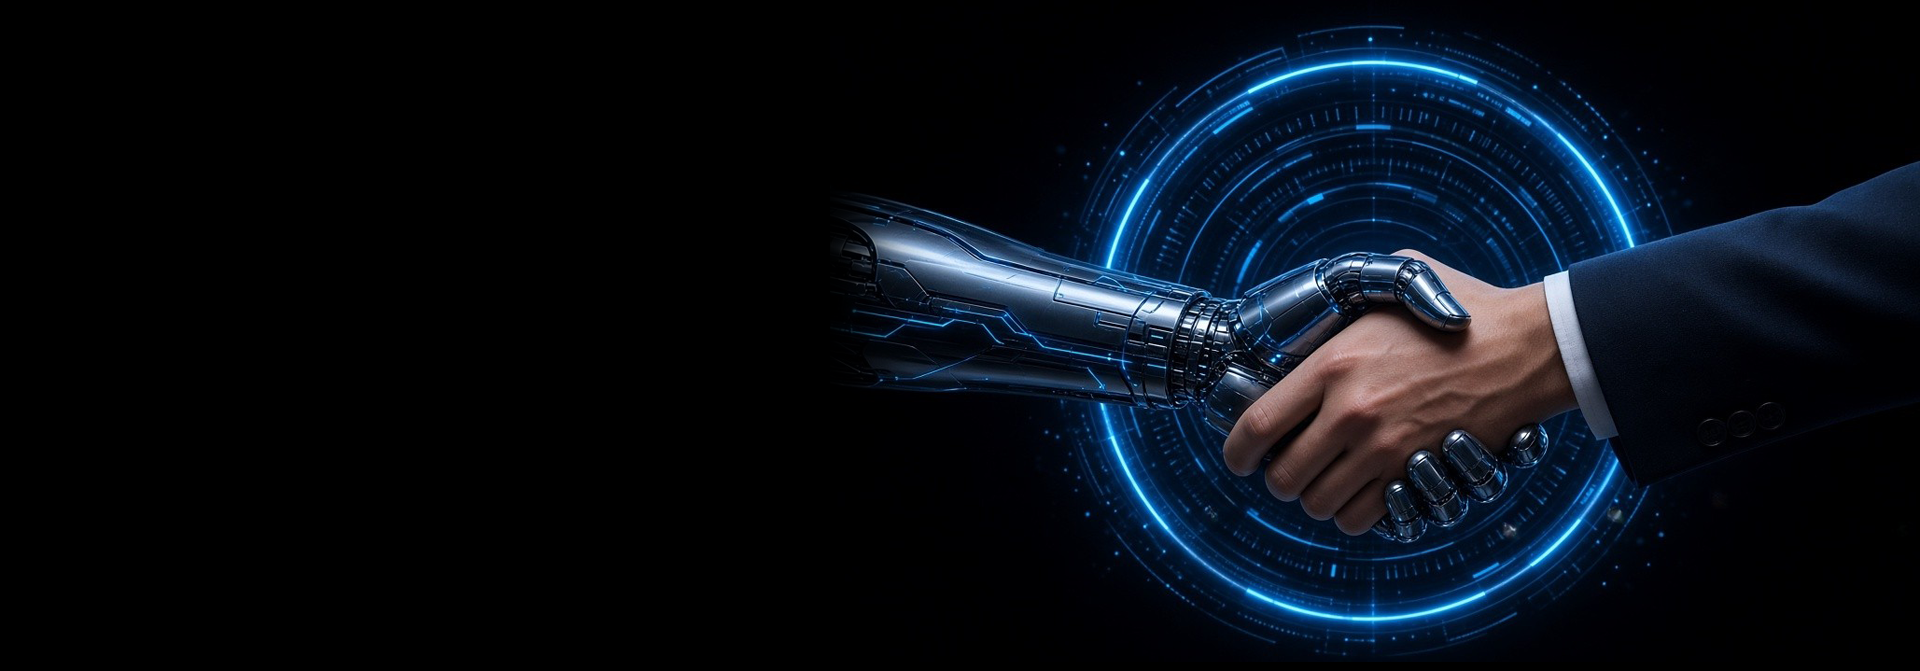
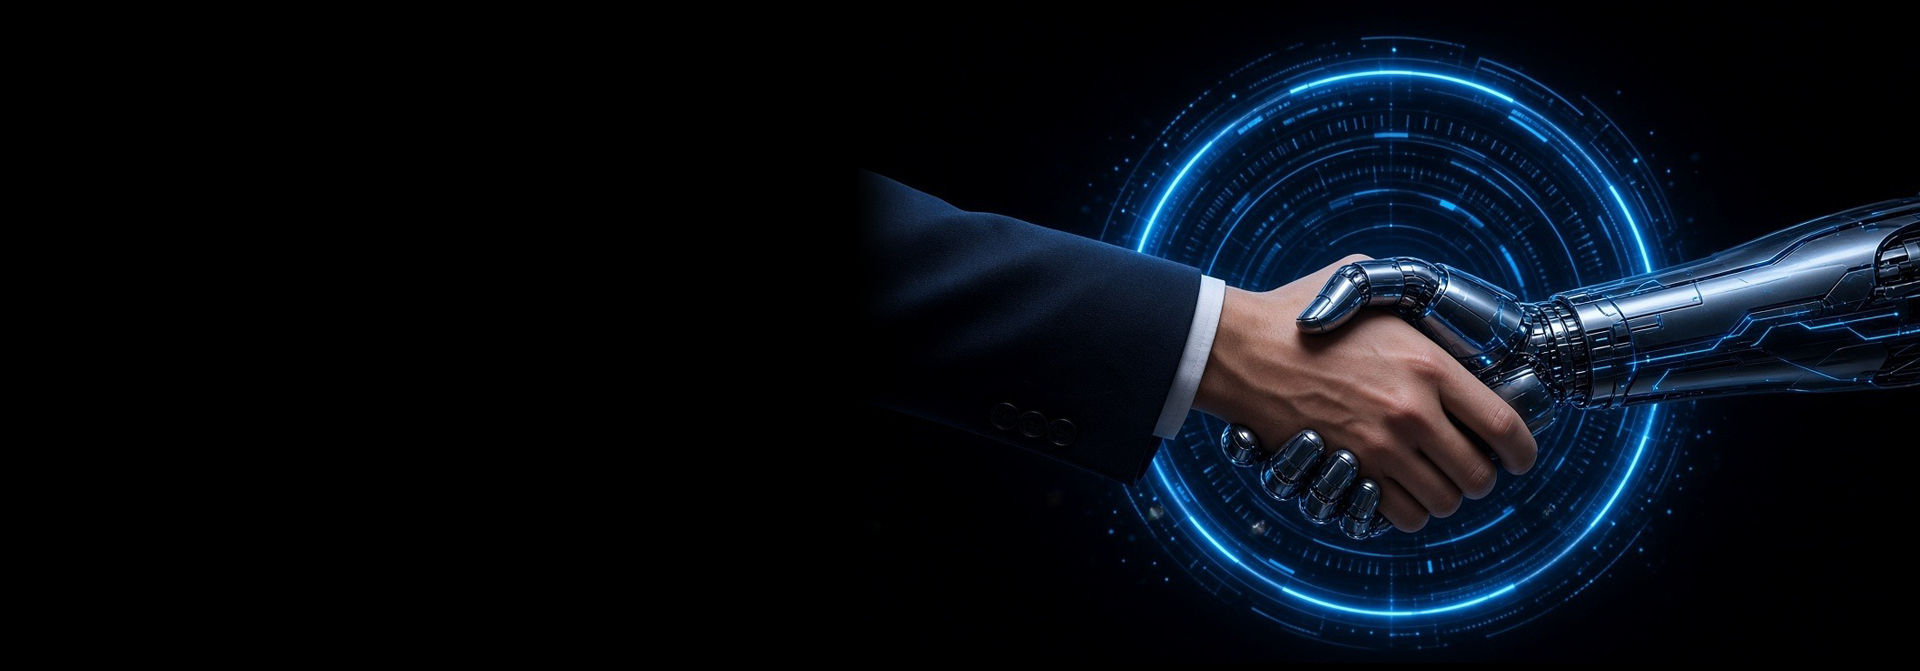
slider left hand shake
slider left hand shake

Changed region(s): [[0.4375, 0.0298, 1.0, 0.9836]]

diff --git a/index.html b/index.html
@@ -57,7 +57,7 @@
                   
                 </ul>
                 <div class="ms-2 ms-lg-1 ms-xl-5 d-lg-flex gap-2">
-                  <a href="#" class="login-btn mb-lg-0 mb-2"><i class="bi bi-box-arrow-in-right me-2"></i>Sign In</a>
+                  <a href="#" class="login-btn mb-lg-0 mb-2"><i class="bi bi-box-arrow-in-right me-2"></i>Login</a>
                  <a href="#" class="attoyer-btn"><i class="bi bi-person-fill me-2"></i>Sign Up</a>
                </div>  
               </div>
@@ -75,7 +75,6 @@
   <section class="slider-one position-relative">
     <div class="slider-one__carousel owl-carousel owl-theme">
       <div class="item slider-one__slider-3 tp-bgimg"><img src="assets/images/banner2.webp"></div>
-      <!-- <div class="item slider-one__slider-3 tp-bgimg"><img src="assets/images/banner3.webp"></div> -->
       <div class="item slider-one__slider-3 tp-bgimg"><img src="assets/images/banner5.png"></div>
       <div class="item slider-one__slider-3 tp-bgimg"><img src="assets/images/banner6.webp"></div>
     </div>  
@@ -386,7 +385,7 @@
             <ul>
               <li><a href="#">Home</a></li>
               <li><a href="#">About Us</a></li>
-              <li><a href="#">Sign In</a></li>
+              <li><a href="#">Login</a></li>
               <li><a href="#">Sign Up</a></li>
               <li><a href="#">Forgot Passward</a></li>
             </ul>
